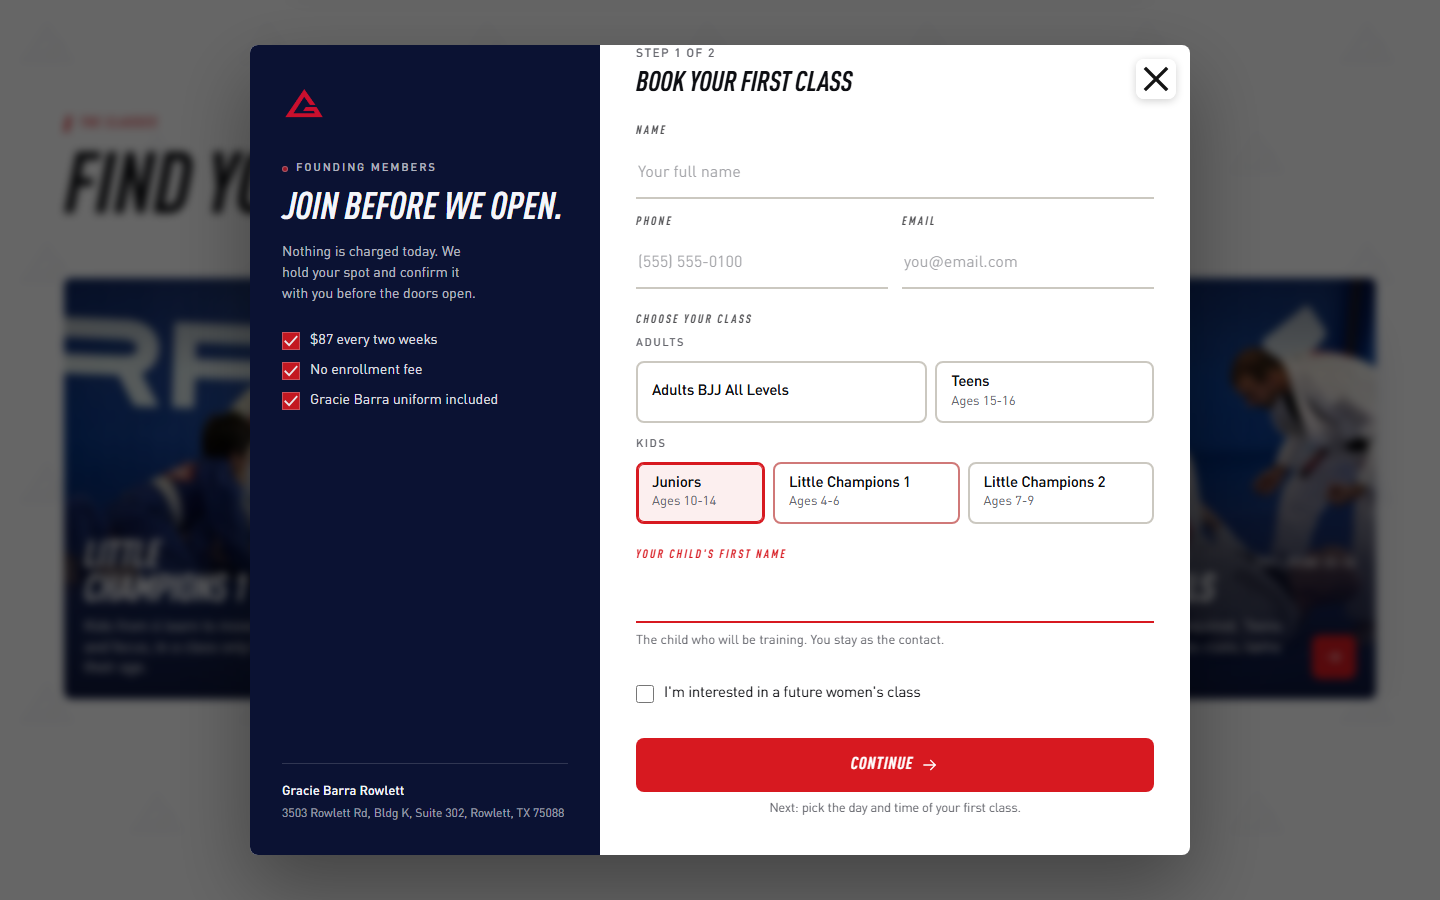
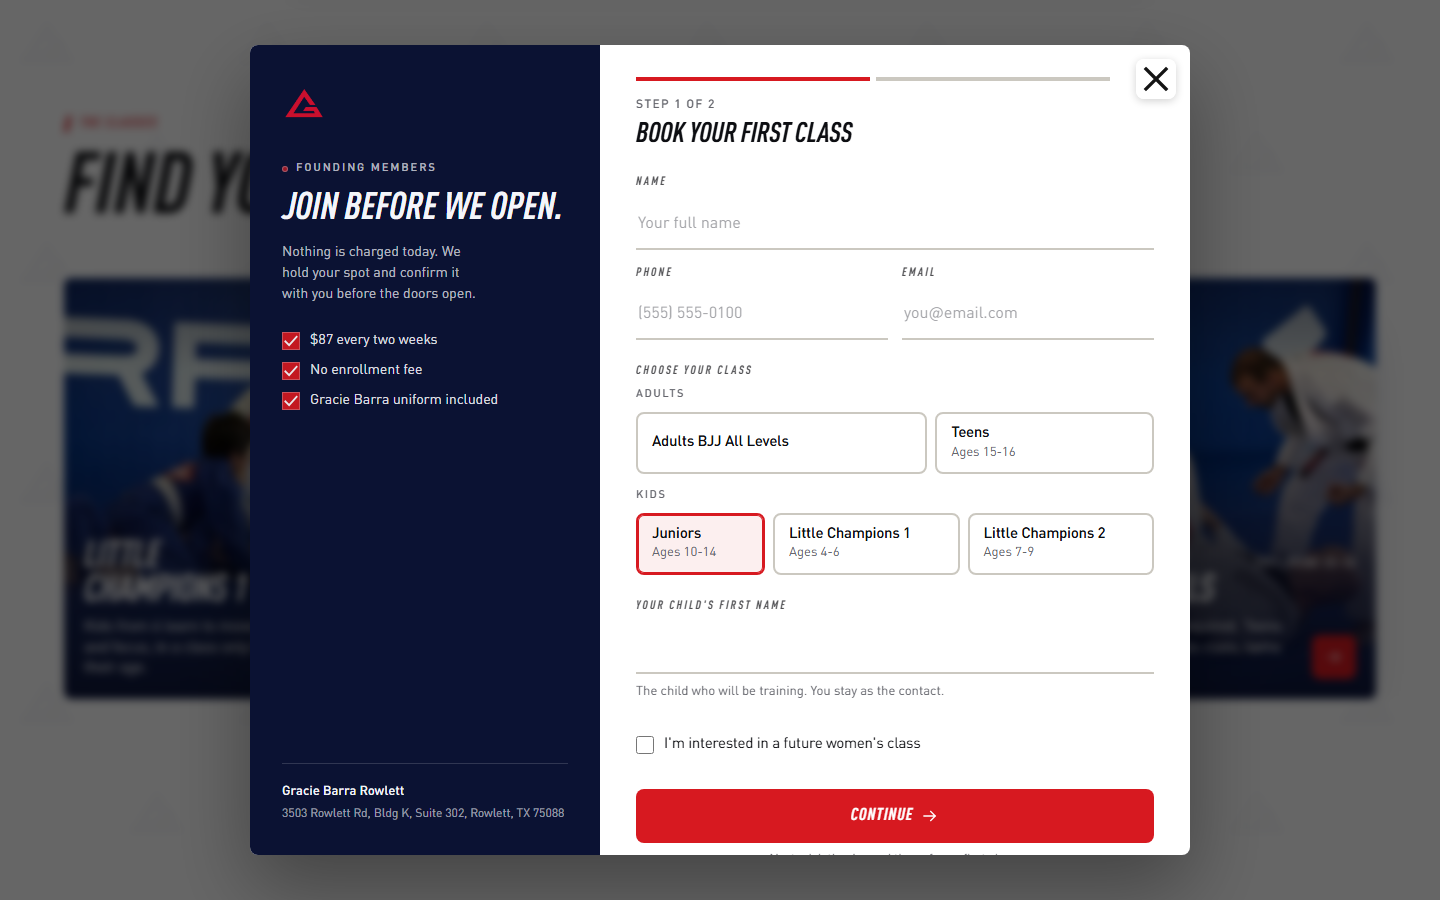
fix(form): a class pre-selected by the card does not scroll the form; only picking a kids class does

diff --git a/src/nd/Booking.tsx b/src/nd/Booking.tsx
@@ -330,12 +330,9 @@ function LiveStep1({
   }
   // turma de kids escolhida PELA PESSOA: o campo da criança aparece, a tela rola até ele e o
   // foco entra (a turma que já chega marcada pelo card não rola: o topo do formulário fica à vista)
-  const firstPick = useRef(true)
+  const initial = useRef(data.calendarId)
   useEffect(() => {
-    if (firstPick.current) {
-      firstPick.current = false
-      return
-    }
+    if (data.calendarId === initial.current) return
     if (!needsChild) return
     const el = childRef.current
     el?.scrollIntoView({ block: 'center', behavior: 'smooth' })
